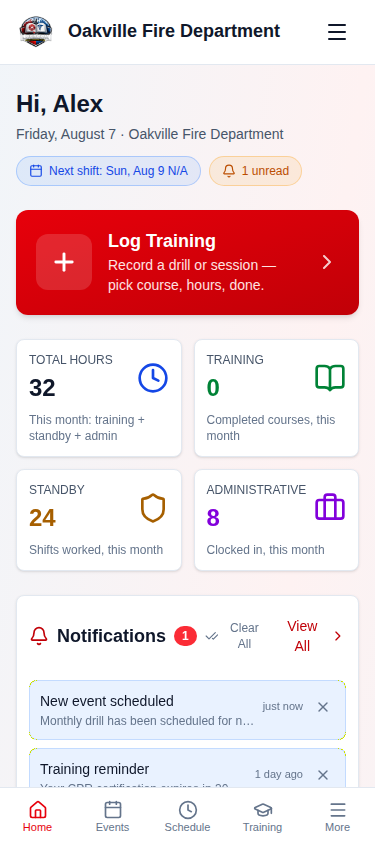
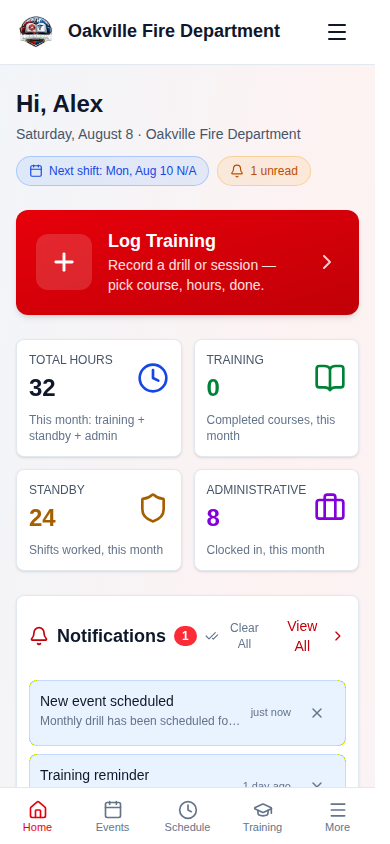
fix(mobile): raise shared form and button utilities to the 44px touch minimum
Undersized tap targets across the app went from 212 to 78 — a 63% cut, with 8
of 29 routes now fully clear — from five changes to shared utilities rather
than a page-by-page sweep.

Measuring rendered geometry showed the backlog was not really per-page: 12 of
the 19 offenders on /training/submit and 9 of the 14 on /inventory were the one
`form-input` utility, and three more appeared on every single route. Fixing the
source beat fixing the symptoms:

- form-input / form-input-sm: px-4 py-2 renders ~41px for an input and ~37px
  for a select. (/inventory 14 -> 1, /training/submit 19 -> 7)
- form-checkbox: a 16px box is the smallest thing on any form. The box stays
  16px so layouts do not move; outline padding with a matching negative margin
  grows the hit area without displacing neighbours.
- btn-primary/secondary/success/info/warning and btn-sm/md/lg.
- btn-icon-sm: its own comment already said "avoid as a primary control on
  touch UIs", which left the constraint to be remembered at each call site.
  It now grows to 44px on phones instead.
- The header logo links and the skip-to-main link, which were 40px on all 29
  routes.

Every rule is inside a max-width: 767px query, so desktop density is unchanged
— a mouse pointer does not need the target a fingertip does. The button rules
also switch to inline-flex there, because a bare min-height leaves the label at
the top of the taller box for anchors styled as buttons. Verified visually as
[…]

Changed region(s): [[0.0615, 0.8318, 0.8923, 0.9242], [0.0308, 0.154, 0.8, 0.2464]]

diff --git a/frontend/src/styles/index.css b/frontend/src/styles/index.css
@@ -280,14 +280,33 @@
 /* --- Form Controls --- (#7 focus border color, #8 transition on focus, #9 inset shadow on focus) */
 @utility form-input {
   @apply bg-theme-input-bg border-theme-input-border text-theme-text-primary placeholder:text-theme-text-muted/60 focus:ring-theme-focus-ring focus:border-theme-focus-ring w-full rounded-lg border px-4 py-2 transition-all duration-150 focus:ring-2 focus:outline-hidden;
+  /* px-4 py-2 renders ~41px for an input and ~37px for a select — under the
+     44px touch minimum. Enforced below md only: a mouse pointer does not need
+     the target a fingertip does, and raising it everywhere would loosen
+     desktop form density. */
+  @media (max-width: 767px) {
+    min-height: 44px;
+  }
 }
 
 @utility form-input-sm {
   @apply bg-theme-input-bg border-theme-input-border text-theme-text-primary placeholder:text-theme-text-muted/60 focus:ring-theme-focus-ring focus:border-theme-focus-ring w-full rounded-sm border px-3 py-1.5 text-sm transition-all duration-150 focus:ring-1 focus:outline-hidden;
+  /* Compact on desktop, still thumb-sized on a phone — see form-input. */
+  @media (max-width: 767px) {
+    min-height: 44px;
+  }
 }
 
 @utility form-checkbox {
   @apply bg-theme-input-bg border-theme-input-border focus:ring-theme-focus-ring h-4 w-4 rounded-sm text-blue-700 dark:text-blue-500;
+  /* A 16px box is the smallest thing on any form. The box stays 16px so
+     layouts are unchanged, but outline-style padding grows the hit area to
+     44px on touch; the negative margin keeps it from displacing neighbours. */
+  @media (max-width: 767px) {
+    padding: 14px;
+    margin: -14px;
+    background-clip: content-box;
+  }
 }
 
 @utility form-label {
@@ -316,35 +335,123 @@
 /* --- Buttons --- (#4 press effect, #5 shadow elevation, #6 smooth multi-property transitions) */
 @utility btn-primary {
   @apply focus:ring-theme-focus-ring rounded-lg bg-red-600 px-4 py-2 text-white shadow-sm transition-all duration-150 ease-out hover:bg-red-700 hover:shadow-md focus:ring-2 focus:outline-hidden active:scale-[0.97] disabled:pointer-events-none disabled:opacity-50;
+
+  /* Grow to the 44px touch minimum on phones. Applied inside the query so
+     desktop button density is untouched; inline-flex centres the label in the
+     taller box, which a plain min-height would leave sitting at the top for
+     anchors styled as buttons. */
+  @media (max-width: 767px) {
+    display: inline-flex;
+    align-items: center;
+    justify-content: center;
+    min-height: 44px;
+  }
 }
 
 @utility btn-secondary {
   @apply bg-theme-surface text-theme-text-primary hover:bg-theme-surface-hover border-theme-surface-border focus:ring-theme-focus-ring rounded-lg border px-4 py-2 shadow-sm transition-all duration-150 ease-out hover:shadow focus:ring-2 focus:outline-hidden active:scale-[0.97] disabled:pointer-events-none disabled:opacity-50;
+
+  /* Grow to the 44px touch minimum on phones. Applied inside the query so
+     desktop button density is untouched; inline-flex centres the label in the
+     taller box, which a plain min-height would leave sitting at the top for
+     anchors styled as buttons. */
+  @media (max-width: 767px) {
+    display: inline-flex;
+    align-items: center;
+    justify-content: center;
+    min-height: 44px;
+  }
 }
 
 @utility btn-success {
   @apply focus:ring-theme-focus-ring rounded-lg bg-green-600 px-4 py-2 text-white shadow-sm transition-all duration-150 ease-out hover:bg-green-700 hover:shadow-md focus:ring-2 focus:outline-hidden active:scale-[0.97] disabled:pointer-events-none disabled:opacity-50;
+
+  /* Grow to the 44px touch minimum on phones. Applied inside the query so
+     desktop button density is untouched; inline-flex centres the label in the
+     taller box, which a plain min-height would leave sitting at the top for
+     anchors styled as buttons. */
+  @media (max-width: 767px) {
+    display: inline-flex;
+    align-items: center;
+    justify-content: center;
+    min-height: 44px;
+  }
 }
 
 @utility btn-info {
   @apply focus:ring-theme-focus-ring rounded-lg bg-blue-600 px-4 py-2 text-white shadow-sm transition-all duration-150 ease-out hover:bg-blue-700 hover:shadow-md focus:ring-2 focus:outline-hidden active:scale-[0.97] disabled:pointer-events-none disabled:opacity-50;
+
+  /* Grow to the 44px touch minimum on phones. Applied inside the query so
+     desktop button density is untouched; inline-flex centres the label in the
+     taller box, which a plain min-height would leave sitting at the top for
+     anchors styled as buttons. */
+  @media (max-width: 767px) {
+    display: inline-flex;
+    align-items: center;
+    justify-content: center;
+    min-height: 44px;
+  }
 }
 
 @utility btn-warning {
   @apply focus:ring-theme-focus-ring rounded-lg bg-yellow-600 px-4 py-2 text-white shadow-sm transition-all duration-150 ease-out hover:bg-yellow-700 hover:shadow-md focus:ring-2 focus:outline-hidden active:scale-[0.97] disabled:pointer-events-none disabled:opacity-50;
+
+  /* Grow to the 44px touch minimum on phones. Applied inside the query so
+     desktop button density is untouched; inline-flex centres the label in the
+     taller box, which a plain min-height would leave sitting at the top for
+     anchors styled as buttons. */
+  @media (max-width: 767px) {
+    display: inline-flex;
+    align-items: center;
+    justify-content: center;
+    min-height: 44px;
+  }
 }
 
 /* --- Standardized Button Sizes (#79) --- */
 @utility btn-sm {
   @apply rounded-md px-2.5 py-1.5 text-xs;
+
+  /* Grow to the 44px touch minimum on phones. Applied inside the query so
+     desktop button density is untouched; inline-flex centres the label in the
+     taller box, which a plain min-height would leave sitting at the top for
+     anchors styled as buttons. */
+  @media (max-width: 767px) {
+    display: inline-flex;
+    align-items: center;
+    justify-content: center;
+    min-height: 44px;
+  }
 }
 
 @utility btn-md {
   @apply rounded-lg px-4 py-2 text-sm;
+
+  /* Grow to the 44px touch minimum on phones. Applied inside the query so
+     desktop button density is untouched; inline-flex centres the label in the
+     taller box, which a plain min-height would leave sitting at the top for
+     anchors styled as buttons. */
+  @media (max-width: 767px) {
+    display: inline-flex;
+    align-items: center;
+    justify-content: center;
+    min-height: 44px;
+  }
 }
 
 @utility btn-lg {
   @apply rounded-lg px-6 py-3 text-base;
+
+  /* Grow to the 44px touch minimum on phones. Applied inside the query so
+     desktop button density is untouched; inline-flex centres the label in the
+     taller box, which a plain min-height would leave sitting at the top for
+     anchors styled as buttons. */
+  @media (max-width: 767px) {
+    display: inline-flex;
+    align-items: center;
+    justify-content: center;
+    min-height: 44px;
+  }
 }
 
 @utility btn-icon {
@@ -353,9 +460,14 @@
 }
 
 @utility btn-icon-sm {
-  /* Compact 36px icon button for dense desktop toolbars — below the touch-target
-     minimum, so avoid it as a primary control on touch UIs. */
+  /* Compact 36px icon button for dense desktop toolbars. Its own guidance was
+     "avoid as a primary control on touch UIs" — rather than leave that to be
+     remembered at each call site, it grows to the full 44px on phones. */
   @apply inline-flex min-h-[36px] min-w-[36px] items-center justify-center rounded-md p-1.5;
+  @media (max-width: 767px) {
+    min-height: 44px;
+    min-width: 44px;
+  }
 }
 
 /* --- Stat Cards --- (#10 stat card shadow + hover) */
@@ -1209,7 +1321,8 @@ option {
 
 /* Skip to main content link for accessibility */
 .skip-to-main {
-  @apply bg-theme-surface-modal text-theme-text-primary absolute -top-96 left-0 z-50 rounded-br-lg px-4 py-2 focus:top-0;
+  @apply bg-theme-surface-modal text-theme-text-primary absolute -top-96 left-0 z-50 flex items-center rounded-br-lg px-4 py-2 focus:top-0;
+  min-height: 44px;
 }
 
 /* #32 Smooth backdrop overlay for modals and drawers */

diff --git a/frontend/src/e2e/mobile-presentation.spec.ts b/frontend/src/e2e/mobile-presentation.spec.ts
@@ -43,35 +43,35 @@ interface RouteCheck {
 }
 
 const ROUTES: RouteCheck[] = [
-  { path: '/dashboard', maxSmallTargets: 13, maxTinyText: 9 },
-  { path: '/events', maxSmallTargets: 10, maxTinyText: 7 },
-  { path: '/members', maxSmallTargets: 9, maxTinyText: 7 },
-  { path: '/members/admin', maxSmallTargets: 4, maxTinyText: 7, chromeOnly: true },
-  { path: '/documents', maxSmallTargets: 6, maxTinyText: 7 },
-  { path: '/training/my-training', maxSmallTargets: 6, maxTinyText: 7 },
-  { path: '/training/submit', maxSmallTargets: 19, maxTinyText: 7 },
-  { path: '/training/courses', maxSmallTargets: 7, maxTinyText: 7 },
-  { path: '/training/programs', maxSmallTargets: 6, maxTinyText: 7 },
-  { path: '/scheduling', maxSmallTargets: 6, maxTinyText: 7 },
-  { path: '/scheduling/reports', maxSmallTargets: 4, maxTinyText: 7, chromeOnly: true },
-  { path: '/admin-hours', maxSmallTargets: 6, maxTinyText: 7 },
-  { path: '/notifications?tab=inbox', maxSmallTargets: 10, maxTinyText: 6 },
-  { path: '/inventory', maxSmallTargets: 14, maxTinyText: 7 },
-  { path: '/inventory/my-equipment', maxSmallTargets: 7, maxTinyText: 7 },
-  { path: '/apparatus', maxSmallTargets: 7, maxTinyText: 7 },
-  { path: '/apparatus-basic', maxSmallTargets: 3, maxTinyText: 7 },
-  { path: '/locations', maxSmallTargets: 4, maxTinyText: 7 },
-  { path: '/facilities', maxSmallTargets: 7, maxTinyText: 7 },
-  { path: '/elections', maxSmallTargets: 8, maxTinyText: 7 },
-  { path: '/minutes', maxSmallTargets: 5, maxTinyText: 7 },
-  { path: '/action-items', maxSmallTargets: 5, maxTinyText: 7 },
-  { path: '/forms', maxSmallTargets: 4, maxTinyText: 7, chromeOnly: true },
-  { path: '/store', maxSmallTargets: 4, maxTinyText: 7 },
-  { path: '/prospective-members', maxSmallTargets: 4, maxTinyText: 7, chromeOnly: true },
-  { path: '/analytics', maxSmallTargets: 13, maxTinyText: 9 },
-  { path: '/messages', maxSmallTargets: 4, maxTinyText: 7, chromeOnly: true },
-  { path: '/settings', maxSmallTargets: 4, maxTinyText: 7, chromeOnly: true },
-  { path: '/profile', maxSmallTargets: 13, maxTinyText: 9 },
+  { path: '/dashboard', maxSmallTargets: 9, maxTinyText: 9 },
+  { path: '/events', maxSmallTargets: 7, maxTinyText: 7 },
+  { path: '/members', maxSmallTargets: 2, maxTinyText: 7 },
+  { path: '/members/admin', maxSmallTargets: 0, maxTinyText: 7, chromeOnly: true },
+  { path: '/documents', maxSmallTargets: 2, maxTinyText: 7 },
+  { path: '/training/my-training', maxSmallTargets: 2, maxTinyText: 7 },
+  { path: '/training/submit', maxSmallTargets: 7, maxTinyText: 7 },
+  { path: '/training/courses', maxSmallTargets: 1, maxTinyText: 7 },
+  { path: '/training/programs', maxSmallTargets: 1, maxTinyText: 7 },
+  { path: '/scheduling', maxSmallTargets: 3, maxTinyText: 7 },
+  { path: '/scheduling/reports', maxSmallTargets: 0, maxTinyText: 7, chromeOnly: true },
+  { path: '/admin-hours', maxSmallTargets: 3, maxTinyText: 7 },
+  { path: '/notifications?tab=inbox', maxSmallTargets: 7, maxTinyText: 6 },
+  { path: '/inventory', maxSmallTargets: 1, maxTinyText: 7 },
+  { path: '/inventory/my-equipment', maxSmallTargets: 1, maxTinyText: 7 },
+  { path: '/apparatus', maxSmallTargets: 2, maxTinyText: 7 },
+  { path: '/apparatus-basic', maxSmallTargets: 0, maxTinyText: 7 },
+  { path: '/locations', maxSmallTargets: 1, maxTinyText: 7 },
+  { path: '/facilities', maxSmallTargets: 3, maxTinyText: 7 },
+  { path: '/elections', maxSmallTargets: 4, maxTinyText: 7 },
+  { path: '/minutes', maxSmallTargets: 1, maxTinyText: 7 },
+  { path: '/action-items', maxSmallTargets: 2, maxTinyText: 7 },
+  { path: '/forms', maxSmallTargets: 0, maxTinyText: 7, chromeOnly: true },
+  { path: '/store', maxSmallTargets: 0, maxTinyText: 7 },
+  { path: '/prospective-members', maxSmallTargets: 0, maxTinyText: 7, chromeOnly: true },
+  { path: '/analytics', maxSmallTargets: 9, maxTinyText: 9 },
+  { path: '/messages', maxSmallTargets: 1, maxTinyText: 7, chromeOnly: true },
+  { path: '/settings', maxSmallTargets: 0, maxTinyText: 7, chromeOnly: true },
+  { path: '/profile', maxSmallTargets: 9, maxTinyText: 9 },
 ];
 
 /** iPhone 14/15 class — the narrow end of what members actually carry. */

diff --git a/frontend/src/components/layout/SideNavigation.tsx b/frontend/src/components/layout/SideNavigation.tsx
@@ -577,7 +577,7 @@ export const SideNavigation: React.FC<SideNavigationProps> = ({
         <div className="flex items-center justify-between h-16 px-4">
           <Link
             to="/dashboard"
-            className="flex items-center focus:outline-hidden focus:ring-2 focus:ring-theme-focus-ring rounded-lg"
+            className="flex min-h-[44px] items-center focus:outline-hidden focus:ring-2 focus:ring-theme-focus-ring rounded-lg"
           >
             <div className="w-10 h-10 rounded-lg flex items-center justify-center overflow-hidden">
               <img
@@ -639,7 +639,7 @@ export const SideNavigation: React.FC<SideNavigationProps> = ({
                 <div className="flex items-center justify-center">
                   <Link
                     to="/dashboard"
-                    className="flex items-center overflow-hidden focus:outline-hidden focus:ring-2 focus:ring-theme-focus-ring rounded-lg"
+                    className="flex min-h-[44px] items-center overflow-hidden focus:outline-hidden focus:ring-2 focus:ring-theme-focus-ring rounded-lg"
                   >
                     <div className="w-10 h-10 rounded-lg flex items-center justify-center overflow-hidden shrink-0">
                       <img
@@ -665,7 +665,7 @@ export const SideNavigation: React.FC<SideNavigationProps> = ({
               <div className="flex items-center justify-between">
                 <Link
                   to="/dashboard"
-                  className="flex items-center overflow-hidden focus:outline-hidden focus:ring-2 focus:ring-theme-focus-ring rounded-lg"
+                  className="flex min-h-[44px] items-center overflow-hidden focus:outline-hidden focus:ring-2 focus:ring-theme-focus-ring rounded-lg"
                 >
                   <div className="w-10 h-10 rounded-lg flex items-center justify-center overflow-hidden shrink-0">
                     <img

diff --git a/frontend/src/components/layout/TopNavigation.tsx b/frontend/src/components/layout/TopNavigation.tsx
@@ -238,7 +238,7 @@ export const TopNavigation: React.FC<TopNavigationProps> = ({
       <div className="max-w-7xl mx-auto px-4 sm:px-6 lg:px-8">
         <div className="flex items-center justify-between h-16">
           {/* Logo and Department Name */}
-          <a href="/dashboard" className="flex items-center focus:outline-hidden focus:ring-2 focus:ring-theme-focus-ring focus:ring-offset-2 rounded-lg">
+          <a href="/dashboard" className="flex min-h-[44px] items-center focus:outline-hidden focus:ring-2 focus:ring-theme-focus-ring focus:ring-offset-2 rounded-lg">
             <div className="w-10 h-10 rounded-lg flex items-center justify-center overflow-hidden">
               <img
                 src={logoPreview || '/logo-128.png'}

diff --git a/frontend/src/components/HelpLink.tsx b/frontend/src/components/HelpLink.tsx
@@ -89,7 +89,7 @@ export const HelpLink: React.FC<HelpLinkProps> = ({
       >
         <button
           onClick={handleClick}
-          className="text-theme-text-muted hover:text-theme-text-primary transition-colors p-1 rounded-sm focus:outline-hidden focus:ring-2 focus:ring-theme-focus-ring"
+          className="text-theme-text-muted hover:text-theme-text-primary transition-colors p-1 max-md:mobile-touch-target rounded-sm focus:outline-hidden focus:ring-2 focus:ring-theme-focus-ring"
           aria-label={`Help: ${topic}`}
           aria-expanded={tooltip ? showTooltip : undefined}
           type="button"
